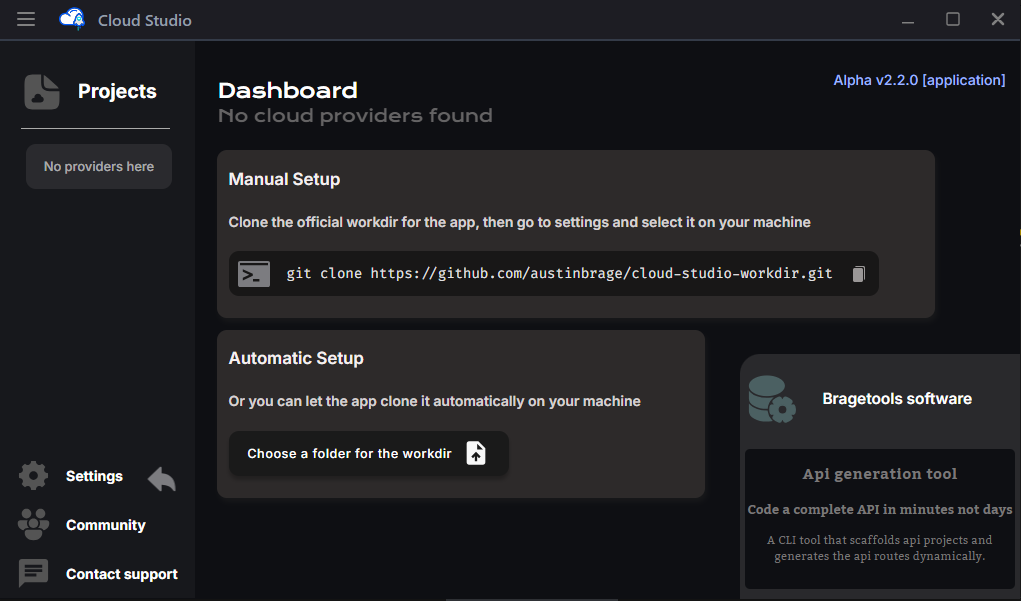
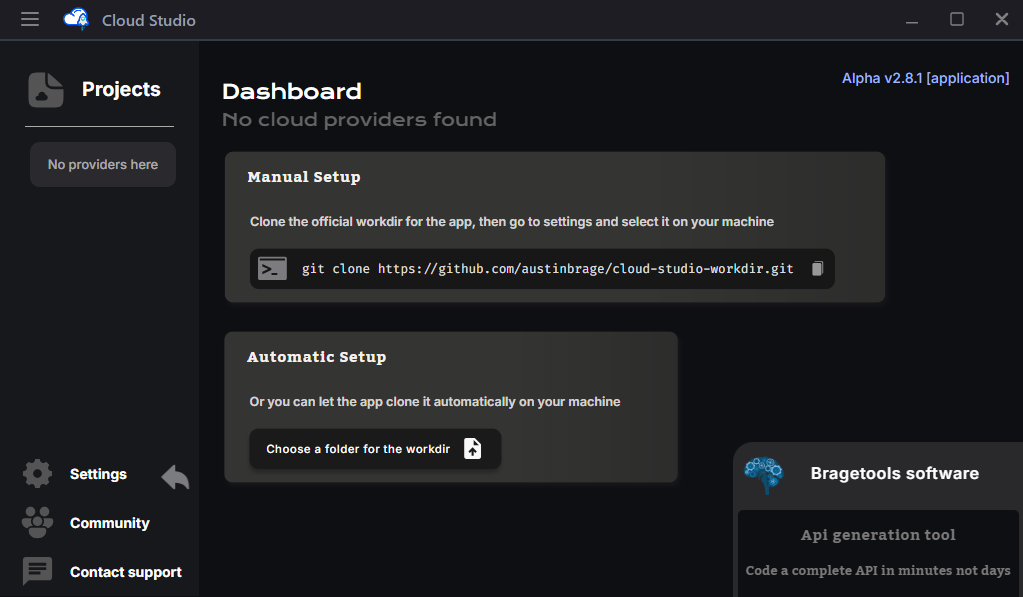
feat: change dashboard example images (init and main dashboards)

diff --git a/guide/app-examples.md b/guide/app-examples.md
@@ -10,17 +10,17 @@ The desktop application consists of an intuitive dashboard for seamlessly switch
 
 On the main dashboard you will find the state and version of the required tools for the app, as well as the **PROVIDERS** folders of the workdir on the sidemenu.
 
-![Initial Dashboard](../assets/images/examples_dashboard/main_dashboard_2.png)
+![Initial Dashboard](../assets/images/examples_dashboard/main_dashboard.png)
 
 ## Projects
 
-When selecting a provider, a new view will open with all the projects on the sidemenu, the status of the projects on the center *(deployed, destroyed, etc)*. 
+When selecting a provider, a new view will open with all the projects on the sidemenu, and the status of the projects on the center *(deployed, destroyed, etc)*. 
 
 > *And the botton icons on the top to go to templates, modules, secrets and keys.*
 
 ![Initial Dashboard](../assets/images/examples_dashboard/projects_dashboard.png)
 
-Once you select a project, it's gonna display the tfVars variable, and the buttons for running commands such as **apply**, **plan**, and more. 
+Once you select a project, it's gonna display the tfVars variable, and the buttons for running commands such as **apply**, **plan**, **destroy**, **ansible-playbook**, and more. 
 
 > *Including (re)deploy project button which runs init, apply and ansible-playbook.*
 
